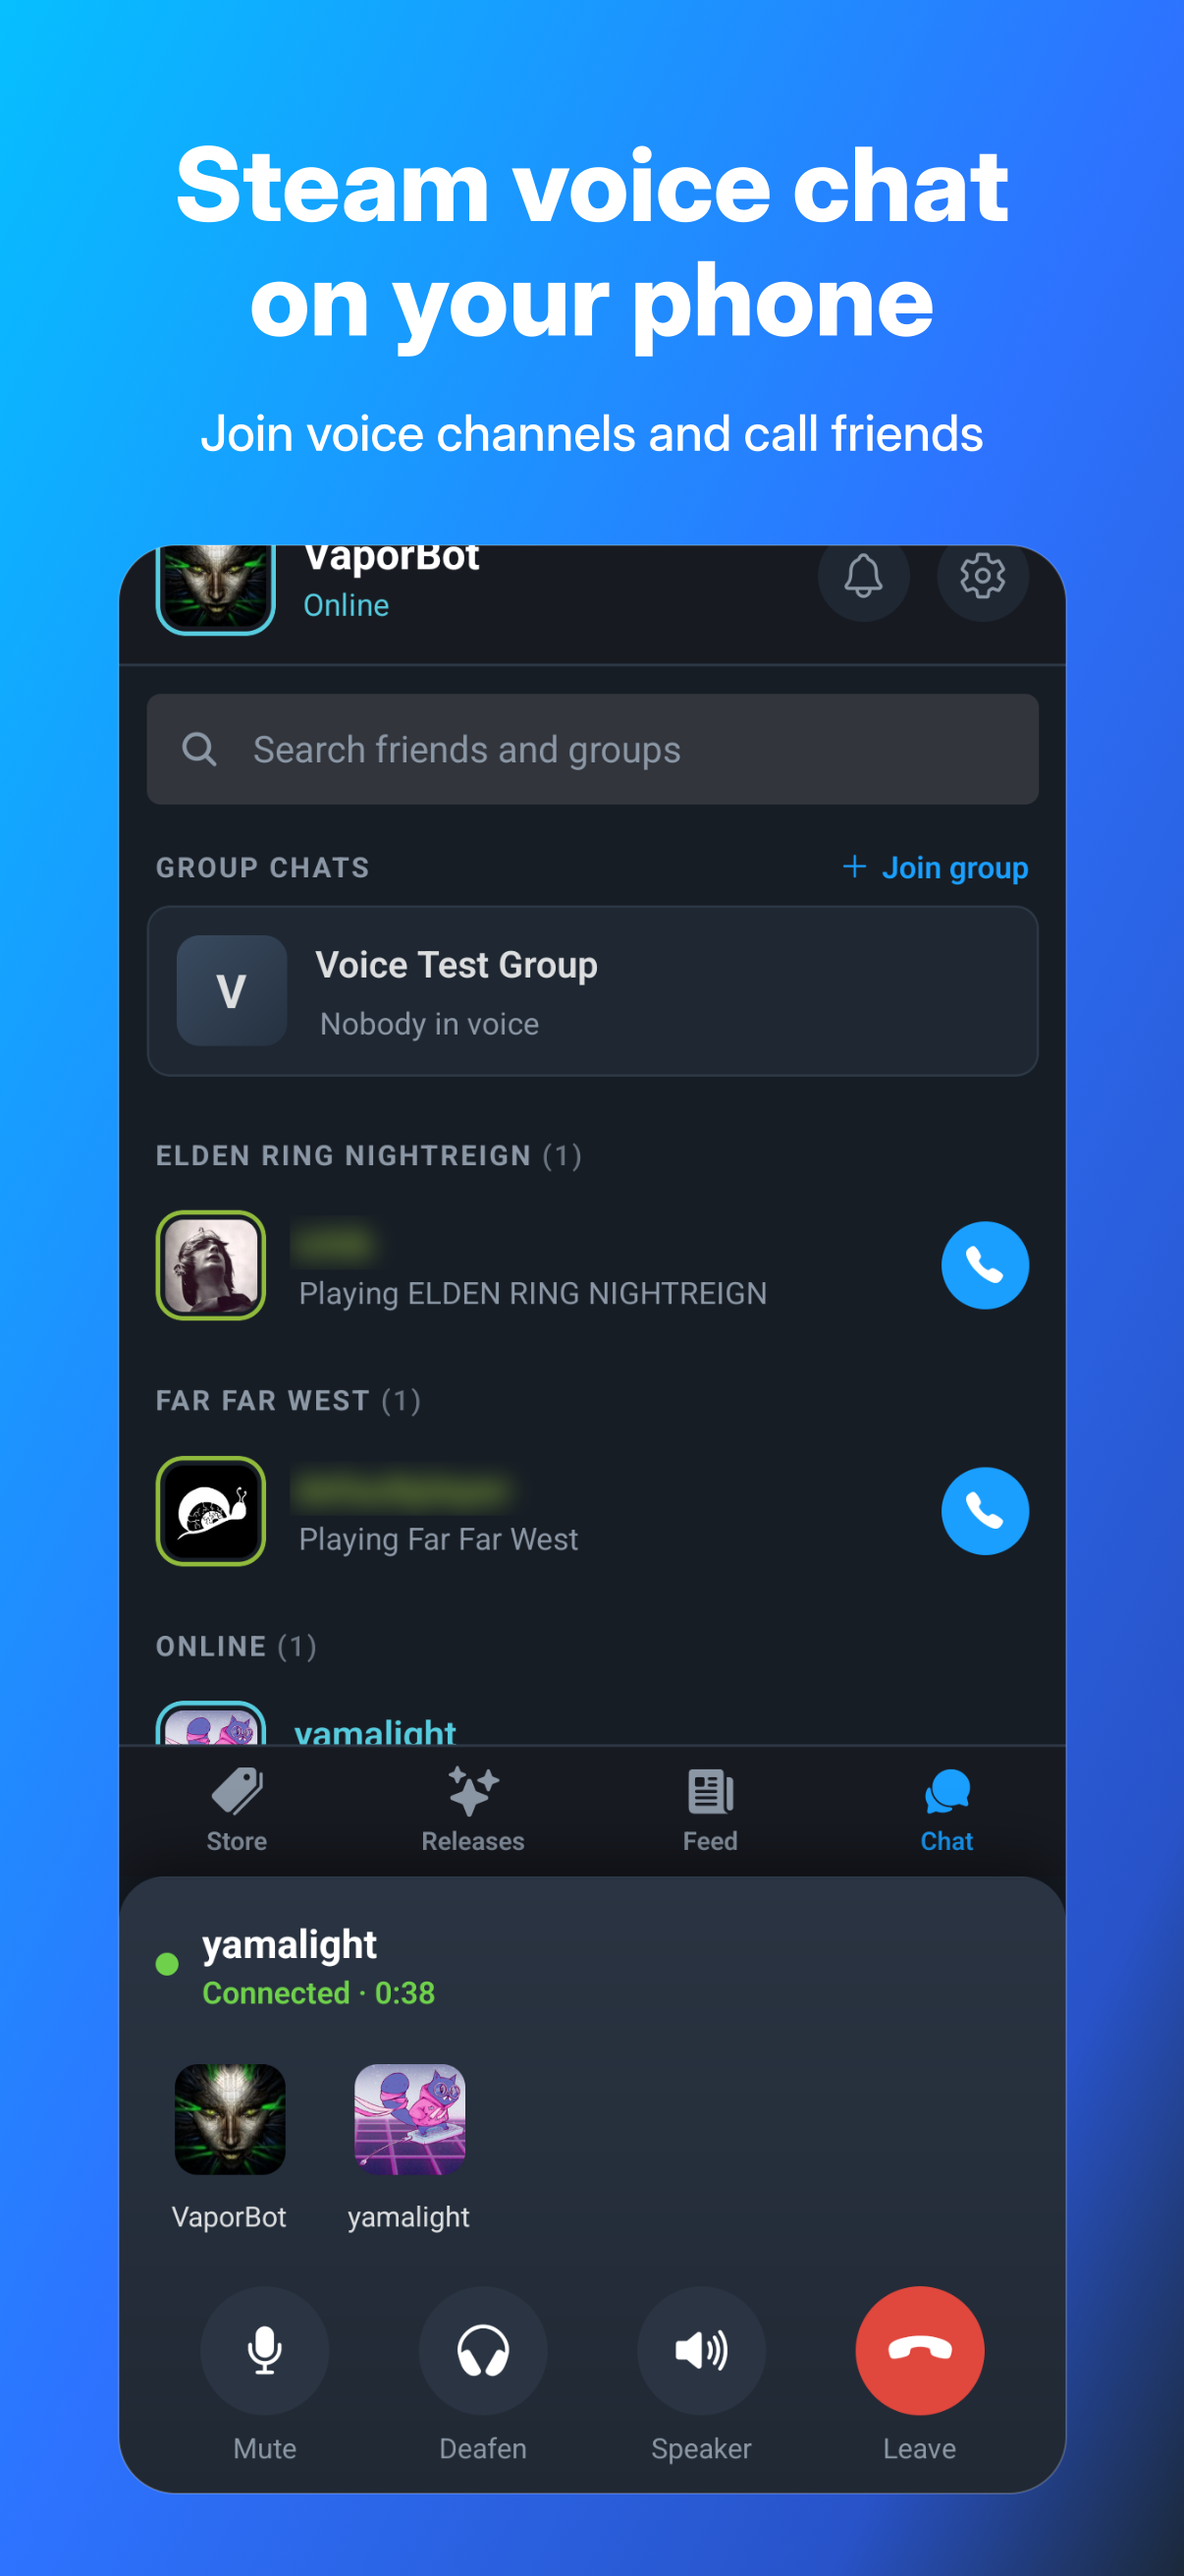
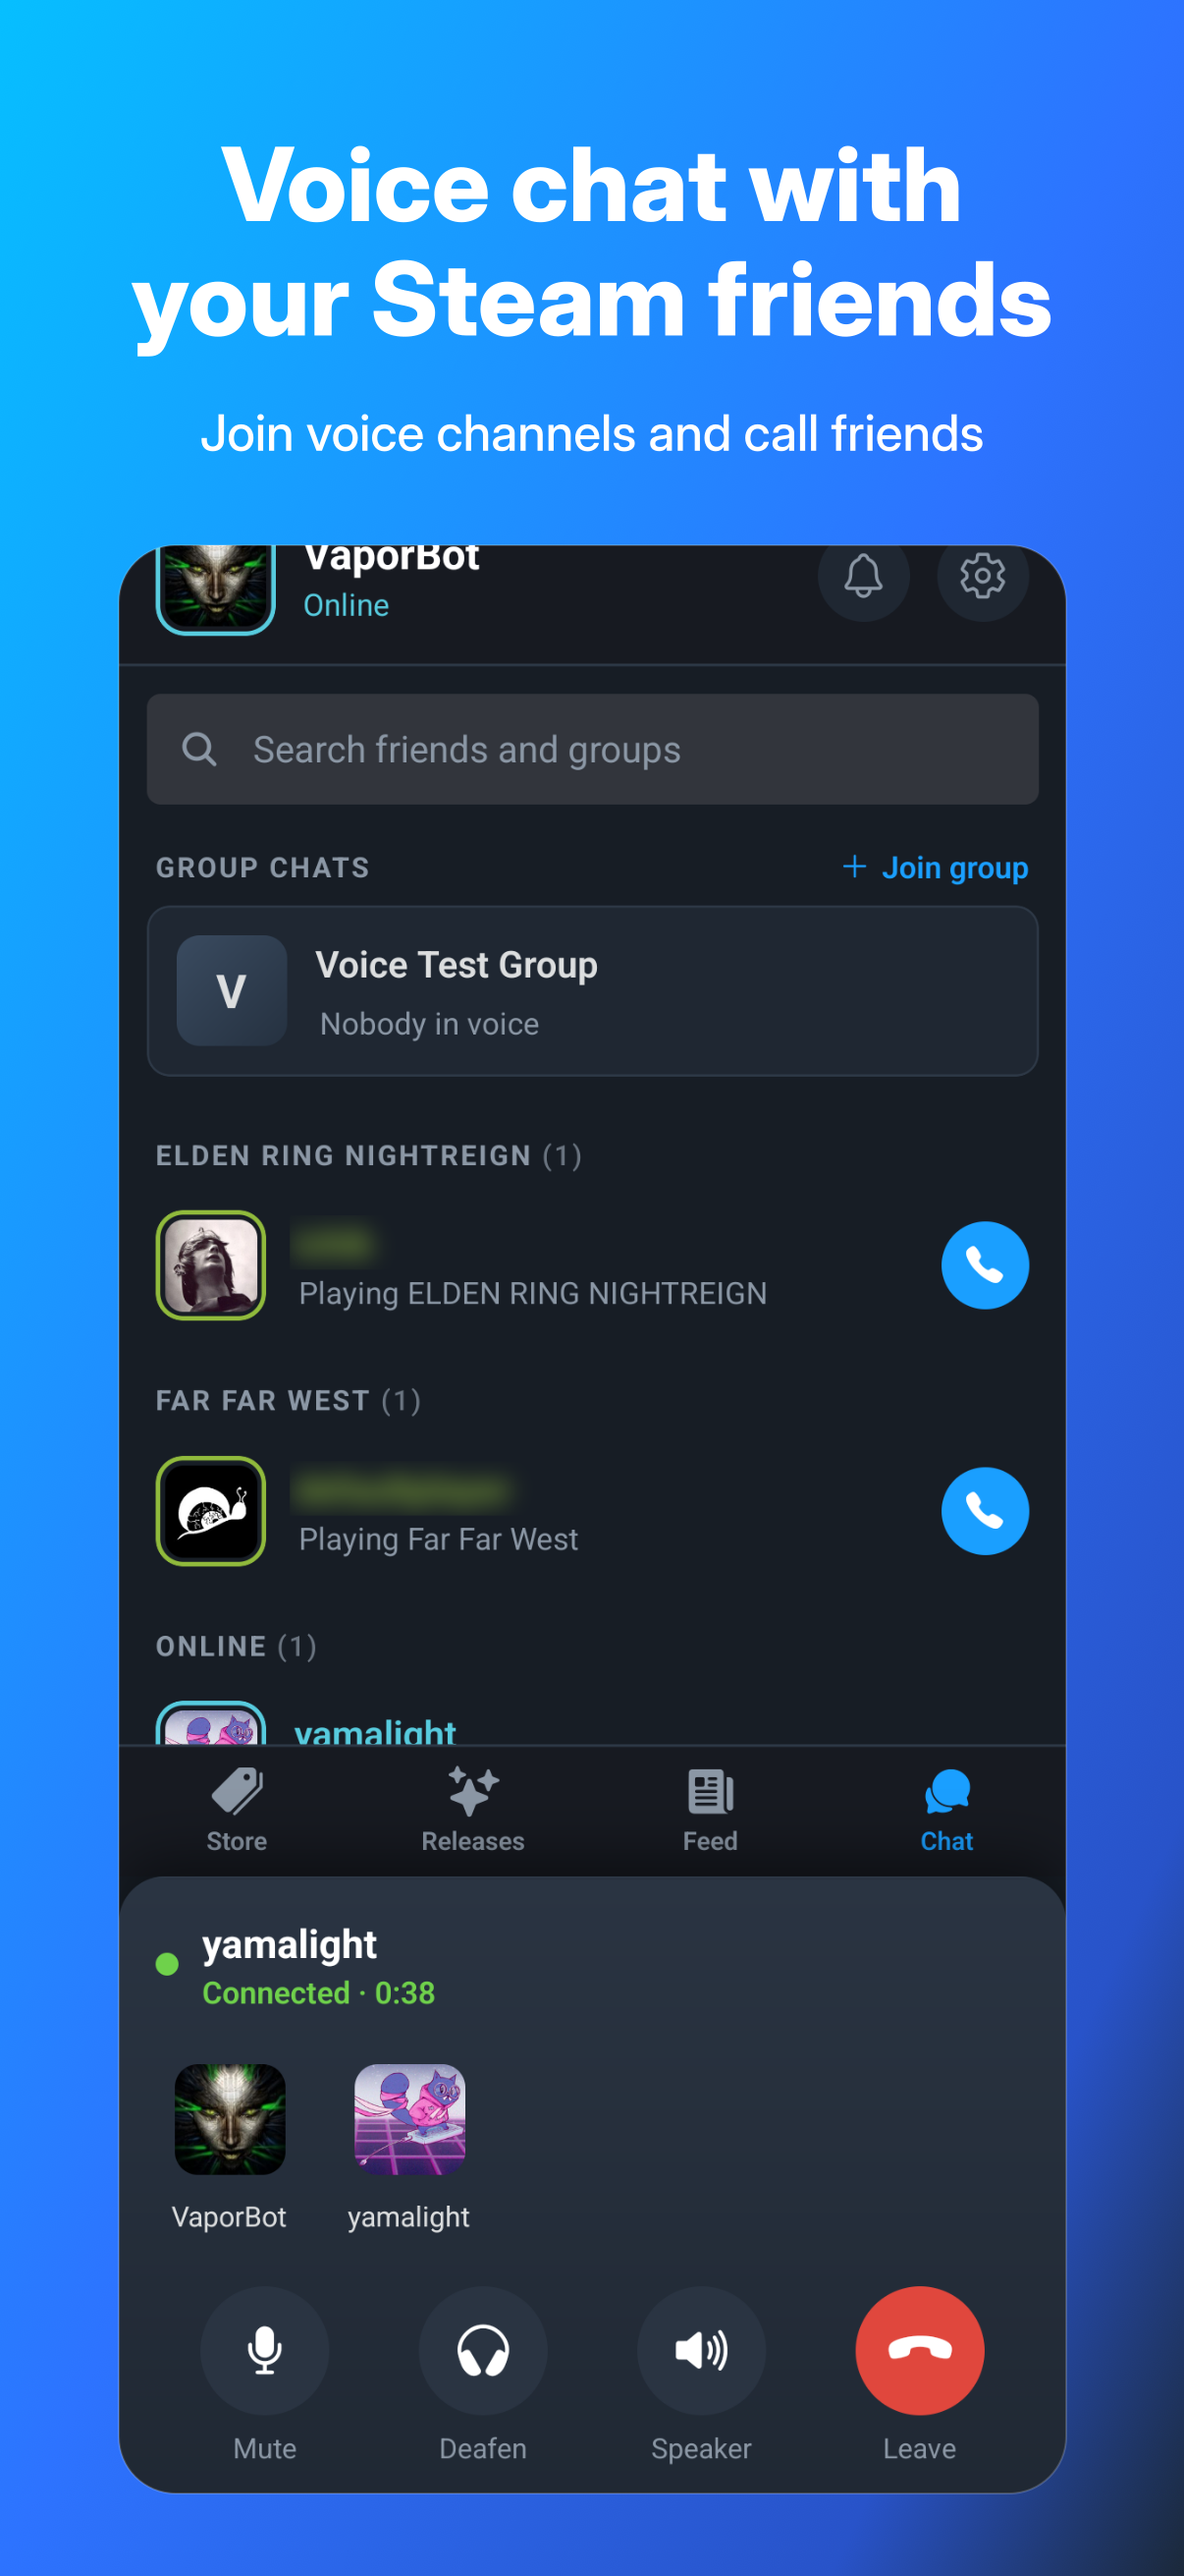
Update assets and description for Apple review appeal
App was rejected as "Steam copycat" so I guess we need to be more explicit we're not

Changed region(s): [[0.1227, 0.0309, 0.8897, 0.1545]]

diff --git a/media/render.ts b/media/render.ts
@@ -33,7 +33,7 @@ const SLIDES: Slide[] = [
   {
     name: 'voice-chat',
     capture: 'voice-chat',
-    title: ['Steam voice chat', 'on your phone'],
+    title: ['Voice chat with', 'your Steam friends'],
     subtitle: ['Join voice channels and call friends'],
     // the call controls are at the bottom
     keep: 'bottom',
@@ -47,8 +47,8 @@ const SLIDES: Slide[] = [
   {
     name: 'game-page',
     capture: 'game-page',
-    title: ['A fully native', 'Steam experience'],
-    subtitle: ['Smooth and fast, built for your phone'],
+    title: ['Game pages, built', 'for your phone'],
+    subtitle: ['Smooth, fast and native'],
   },
   {
     name: 'releases',

diff --git a/docs/store-submission.md b/docs/store-submission.md
@@ -48,9 +48,9 @@ first.
 | # | Slide | Caption | Play alt text (max 140) |
 | --- | --- | --- | --- |
 | 1 | `vaporlens` | Game reviews at a glance | VaporLens summary of a game's Steam reviews with scores for reviews, microtransactions, mods, Linux and Steam Deck |
-| 2 | `voice-chat` | Steam voice chat on your phone | Friends list grouped by the game each friend plays, with a voice call in progress at the bottom |
+| 2 | `voice-chat` | Voice chat with your Steam friends | Friends list grouped by the game each friend plays, with a voice call in progress at the bottom |
 | 3 | `review-points` | What players love and what they don't | Lists of what players like, common complaints, gameplay and performance, summed up from reviews |
-| 4 | `game-page` | A fully native Steam experience | Steam store page for a game with its price, discount, review score, tabs and description |
+| 4 | `game-page` | Game pages, built for your phone | Steam store page for a game with its price, discount, review score, tabs and description |
 | 5 | `releases` | Find your next game | Grid of new releases on Steam with prices and discounts |
 | 6 | `events` | News and events from your games | Feed of Steam sale events with their banners and descriptions |
 
@@ -64,7 +64,7 @@ Interactive) and whatever the store lists showed on 2026-10-24.
 
 **Name** (30): `Vaporlens`
 
-**Subtitle** (30): `Native Steam companion + voice`
+**Subtitle** (30): `Game reviews & voice for Steam`
 
 **Category:** Entertainment, secondary Reference (Apple: "apps that assist the user in accessing or
 retrieving information", i.e. the review summaries and game pages).
@@ -94,7 +94,7 @@ reviews,summary,worth it,pros cons,chat,call,friends,wishlist,deals,pc gaming,li
 - Notes:
 
   ```
-  Vaporlens is an unofficial Steam companion app, not affiliated with Valve. Game review summaries come from VaporLens (vaporlens.app), our own service.
+  Vaporlens is an unofficial app for Steam, not affiliated with or endorsed by Valve. Game review summaries come from VaporLens (vaporlens.app), our own service.
 
   SIGNING IN
   Store, Releases, Feed and game pages work without signing in. Chat, voice, Wishlist and My games need a Steam account: tap "Sign in" and use the demo account above. Steam Guard is off for it, so no code is asked. The password goes only to Steam.
@@ -177,7 +177,7 @@ connected" on Android until there's push.
 
 ## Description
 
-Shared by both stores (plain text, 1761 of 4,000 characters):
+Shared by both stores (plain text, 1754 of 4,000 characters):
 
 ```
 Is this Steam game worth it? Open any game and VaporLens tells you what its Steam reviews say, in a few lines.
@@ -196,7 +196,7 @@ STEAM VOICE CHAT
 • Keep talking with the screen off, on the speaker, earpiece or a headset
 • Mute, deafen, and set each person's volume
 
-A FULLY NATIVE STEAM EXPERIENCE
+STORE, WISHLIST AND CHAT
 • Game pages with media, DLC and editions, system requirements, news and a chart of reviews over time
 • Discounts, top sellers, new releases, and browsing by hub or tag
 • Your wishlist with its categories, and your library with playtime
